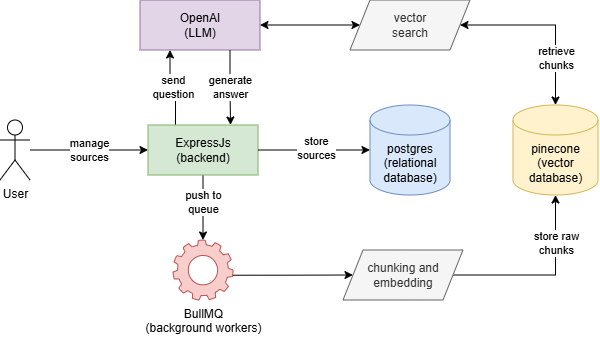
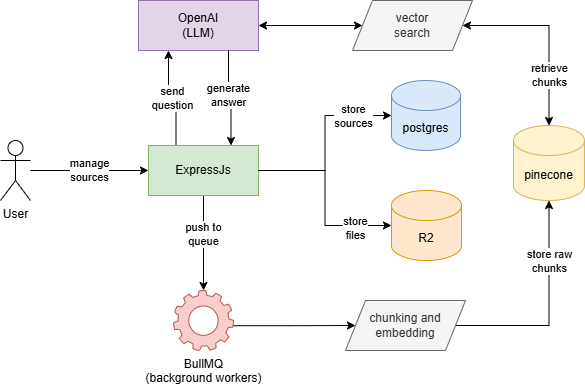
chore: update readme

Changed region(s): [[0.0, 0.0, 1.0, 1.0], [0.6154, 0.0, 0.6462, 0.0297]]

diff --git a/README.md b/README.md
@@ -27,11 +27,12 @@ No need to assemble your own RAG stack.
 
 Alta is built on a reliable and scalable stack:
 
-- **Express.js** — Primary backend server and orchestrator.
+- **Express** — Primary backend server and orchestrator.
 - **OpenAI** — LLM for generating refined, human-readable answers from retrieved context.
 - **BullMQ** — Queue processing system for background ingestion tasks.
 - **PostgreSQL** — Stores raw sources, configurations, metadata, and analytics.
 - **Pinecone** — High-performance vector database for embeddings and retrieval.
+- **R2** - Scalable and secure object storage for storing user sources.
 
 ## 📦 Prequisites
 
@@ -39,6 +40,7 @@ Alta is built on a reliable and scalable stack:
 - **Node.js** ≥ v22
 - **Pinecone account** https://www.pinecone.io/
 - **OpenAI API key** https://openai.com/
+- **Cloudflare account** https://developers.cloudflare.com/
 
 ## Project Setup
 
@@ -53,29 +55,7 @@ Copy the environment template:
 cp .env.example .env
 ```
 
-Then populate the required values:
-```
-PORT=3001
-NODE_ENV=development
-
-JWT_SECRET=
-JWT_EXPIRES_IN=86400
-
-ADMIN_EMAIL=admin@mail.com
-ADMIN_PASSWORD=
-
-RATE_LIMIT_WINDOW=300000
-RATE_LIMIT_MAX_REQ=100
-
-DATABASE_URL=postgresql://postgres:123456@localhost:5433/alta
-REDIS_URL=redis://localhost:6379
-
-PINECONE_API_KEY=pcsk_
-PINECONE_INDEX_NAME=alta-dev
-
-OPENAI_API_KEY=sk_
-ALTA_API_KEY=alta_
-```
+Then populate the required values
 
 ### Running local developmet
 
@@ -112,7 +92,8 @@ alta/
 │  │  ├─ openai/                             # OpenAI client + helper functions
 │  │  ├─ pinecone/                           # Pinecone client + vector DB helpers
 │  │  ├─ pino/                               # Logger setup (Pino)
-│  │  └─ prisma/                             # Prisma client instance
+│  │  ├─ prisma/                             # Prisma client instance
+│  ├─ ├─ r2/                                 # R2 client + helper functions
 │  ├─ middlewares/                           # Express middlewares (auth, errors, etc.)
 │  ├─ modules/                               # Feature-based module architecture
 │  │  └─ <module_name>/
@@ -135,5 +116,6 @@ alta/
 ├─ package.json                              # Dependencies & npm scripts
 ├─ tsconfig.json                             # TypeScript configuration
 ├─ vite.config.ts                            # Vite config (for docs/tools)
+├─ ecosystem.config.js                       # Scripts to run via PM2
 └─ prisma.config.ts                          # Prisma CLI config
 ```
